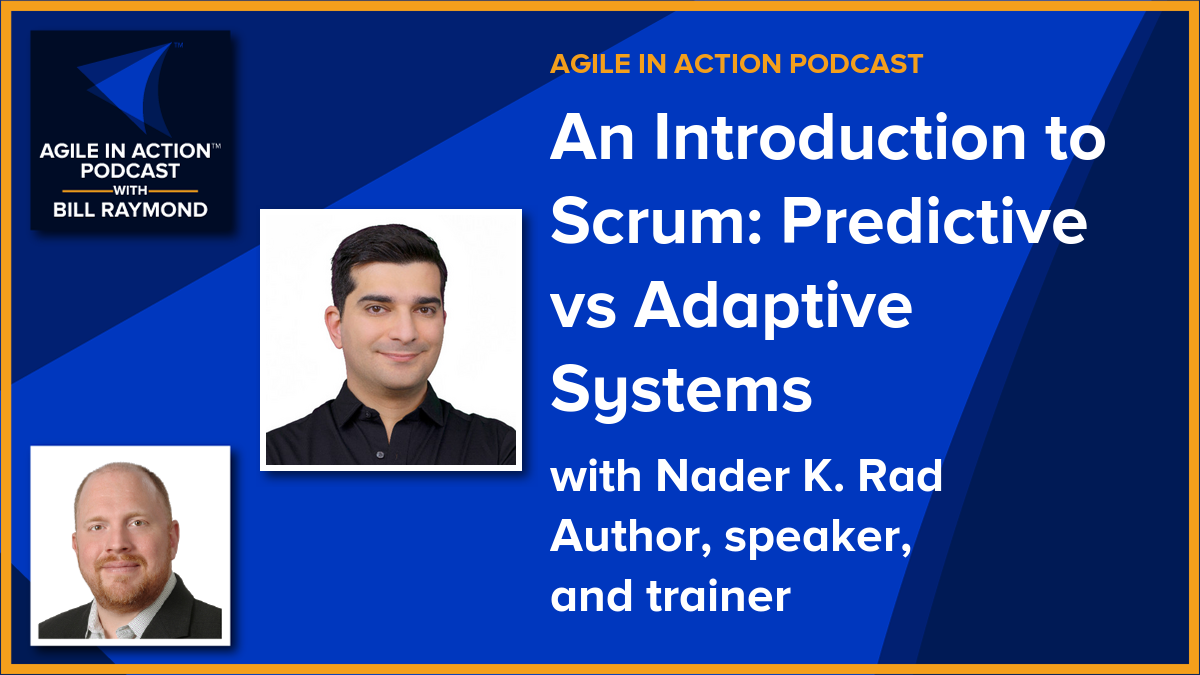
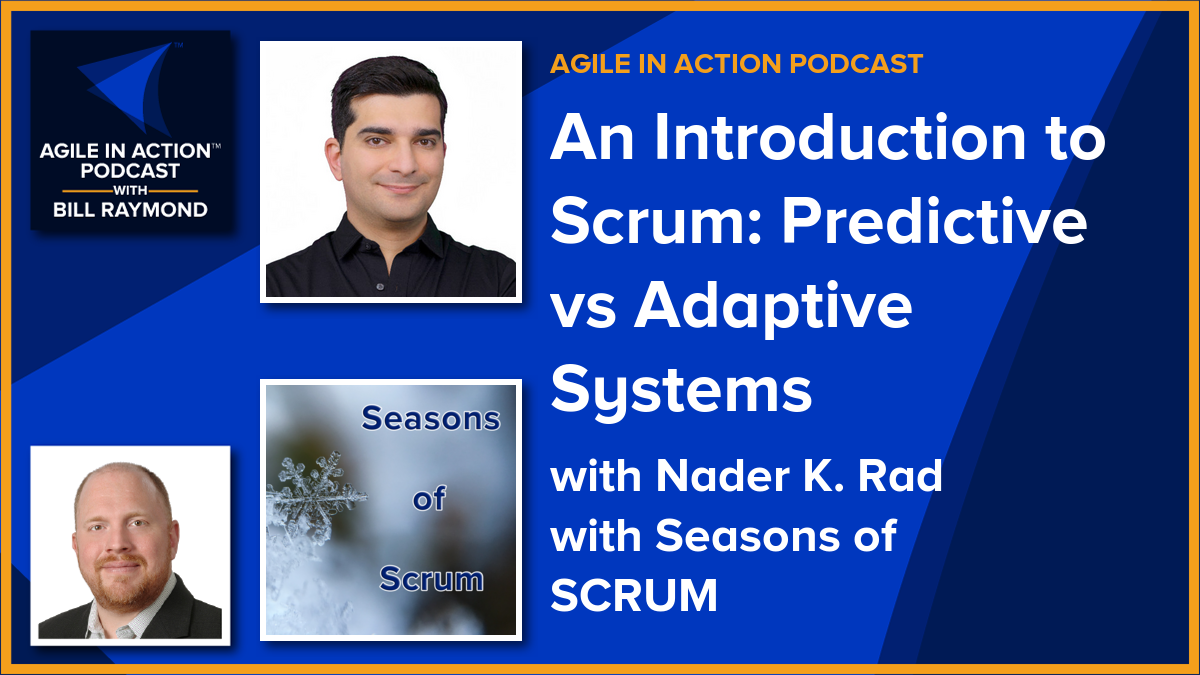
Jekyll build from Action

Changed region(s): [[0.2158, 0.0622, 0.7708, 0.9644]]

diff --git a/agile-in-action-podcast/2023/01/17/an-introduction-to-scrum-predictive-vs-adaptive-systems.html b/agile-in-action-podcast/2023/01/17/an-introduction-to-scrum-predictive-vs-adaptive-systems.html
@@ -65,18 +65,23 @@
   </header>
       <h3>Nader K. Rad</h3>
             <ul><li>
-                    <a href="https://www.linkedin.com/in/naderkrad/" target="blank">Nader on LinnkedIn</a>
+                    <a href="https://nader.pm" target="blank">Nader's website</a>
+                </li><li>
+                    <a href="https://www.linkedin.com/in/naderkrad/" target="blank">Nader on LinkedIn</a>
                 </li><li>
                     <a href="https://www.scrum.org/resources/scrum-guide" target="blank">The Agile Scrum Handbook (Scrum Guide)</a>
                 </li><li>
                     <a href="https://www.agilebusiness.org/business-agility/what-is-dsdm.html" target="blank">DSDM</a>
-                </li></ul>
+                </li></ul><h3>Seasons of SCRUM</h3>
+            <ul></ul>
   <div class="post-content e-content" itemprop="articleBody">
     <h2>About this podcast episode</h2>
     <h2 id="transcript">Transcript</h2>
+<p>(transcripts are auto-generated, so please excuse the brevity)</p>
 
-<p>(transcripts are auto-generated, so please excuse the brevity)
-<strong>Bill Raymond:</strong> Hi and welcome to the podcast. Today, I’m joined by Nader K Rad. Author, speaker, and trainer. Hi, Nader, how are you today?</p>
+<h3 id="introductions">Introductions</h3>
+
+<p><strong>Bill Raymond:</strong> Hi and welcome to the podcast. Today, I’m joined by Nader K Rad. Author, speaker, and trainer. Hi, Nader, how are you today?</p>
 
 <p><strong>Nader K Rad:</strong> Hi Bill. Thanks, I’m fine. Thanks for having me here.</p>
 
@@ -184,7 +189,7 @@
 
 <p><strong>Nader K Rad:</strong> We get together with the team members, think about everything you’ve done during the sprints and the ways you can improve your way of work for the next sprint. It’s a really good idea. Each time in each cycle you have, you pause for a moment, you think about everything that happened and you think, okay, what’s the one thing I can do differently next time to be better?</p>
 
-<p><strong>Nader K Rad:</strong> And then you do that in the next sprint. One or two things. Yeah, so that’s how it works. You go to the next sprint, create the next version of the product. There are details, there are sometimes variations depending on the source that you have in mind for a SCRUM and so on. There are also a few roles that may be interesting for people.</p>
+<p><strong>Nader K Rad:</strong> then you do that in the next sprint. One or two things. Yeah, so that’s how it works. You go to the next sprint, create the next version of the product. There are details, there are sometimes variations depending on the source that you have in mind for a SCRUM and so on. There are also a few roles that may be interesting for people.</p>
 
 <h3 id="feedback-will-become-features">Feedback Will Become Features</h3>
 
@@ -228,23 +233,17 @@
 
 <p><strong>Bill Raymond:</strong> And then just to make sure that we’re all on track and that we’re all making sure that we’re closing out issues and keeping things going, we have a SCRUM master to support that.</p>
 
-<p><strong>Bill Raymond:</strong> This has been a great conversation, I really appreciate it. And this is again, part one of the conversation. We’re going to get into how you actually implement this in the next conversation.</p>
+<p>As we talked about in a SCRUM, we have only the developers, the product owner and the SCRUM master and we don’t have a</p>
 
-<p><strong>Bill Raymond:</strong> But before we wrap up, Nader, is there some way that people can reach you?</p>
+<p>###</p>
 
-<p><strong>Nader K Rad:</strong> Yeah, sure. But before that, I think I should mention something else. Do we have time? Two minutes?</p>
-
-<p><strong>Bill Raymond:</strong> Sure.</p>
-
-<p><strong>Nader K Rad:</strong> All right. So, because you said that many of your audience are project managers. There’s something important here. As we talked about in a SCRUM, we have only the developers, the product owner and the SCRUM master and we don’t have a project manager.</p>
+<p><strong>Nader K Rad:</strong> project manager.</p>
 
 <p><strong>Nader K Rad:</strong> And what happens here, doesn’t mean that we don’t have project management, it means that there’s no single person who’s responsible for project management. But the project management’s responsibilities are distributed among those three roles. And a SCRUM doesn’t want to have a project manager. But that’s only SCRUM, that’s not agile. And many people mistake it.</p>
 
-<p><strong>Nader K Rad:</strong> When people think that when you are agile, you should not have a project manager, which is absolutely wrong. That’s because the only thing people know about that agile is SCRUM. There is nothing wrong with having a project manager in an agile method. And for example, DSDM has a project manager, xFi didn’t have any problem with project managers.</p>
+<p><strong>Nader K Rad:</strong> When people think that when you are agile, you should not have a project manager, which is absolutely wrong. That’s because the only thing people know about that agile is SCRUM. There is nothing wrong with having a project manager in an agile method. And for example, DSDM has a project manager, There are different methods and for people who are interested, I really recommend learning about more than one of them.</p>
 
-<p>There are different methods and for people who are interested, I really recommend learning about more than one of them.</p>
-
-<p><strong>Bill Raymond:</strong> Yeah, that makes sense. I think that’s really important, you know, the roles and the purpose of the roles sometimes change dramatically, depending on the type of work that you’re doing, but it does not say, well, this is some new way of doing things, so therefore your role is now obsolete. That doesn’t happen in this agile space.</p>
+<p><strong>Bill Raymond:</strong> that makes sense. I think that’s really important, you know, the roles and the purpose of the roles sometimes change dramatically, depending on the type of work that you’re doing, but it does not say, well, this is some new way of doing things, so therefore your role is now obsolete. That doesn’t happen in this agile space.</p>
 
 <p><strong>Bill Raymond:</strong> However, the what you do, the actions that you take, the expectations that are on you, could change quite a bit.</p>
 
@@ -254,17 +253,11 @@
 
 <p><strong>Nader K Rad:</strong> Yeah, sure. I’m relatively active on LinkedIn, and that’s probably the best way of contacting me. I’m not active in Twitter or other places like that or Facebook. Just LinkedIn for me. And there’s also my website. People who prefer to send an email or something like that, they can find it in my website.</p>
 
-<p><strong>Bill Raymond:</strong> Yeah, and we found out about you, of course, I’m almost going to call you a serial author. I think you have written 40 or 50 books or something like that, but actually we found out about you by your book. It’s called Agile SCRUM Handbook and I think you’re on the second edition now, is that correct?</p>
+<p><strong>Bill Raymond:</strong> Yeah, and we found out about you, of course, I’m almost going to call you a serial author. I think you have written 40 or 50 books or something like that, but actually we found out about you by your book. It’s called Agile SCRUM Handbook an excellent book, and it’s a great introduction to all of the concepts that we’re talking about here today.</p>
 
-<p><strong>Nader K Rad:</strong> Um, that’s third edition.</p>
+<p><strong>Bill Raymond:</strong> So we’ll provide a link to your LinkedIn account, your book and of course your website, and I’ll make sure that those are on the AgileInAction.com website. Just look up the conversation with Nader K Rad, and it will also be right there in your podcast app that you’re using right now. Just scroll down to the show notes or the description, and you’ll see those links there. Nader, thank you, and until the next podcast, have a great great day. day</p>
 
-<p><strong>Bill Raymond:</strong> Oh, third edition, I’m sorry. Yes, the third edition. I apologize for that. I have that written down wrong. But yes, it’s an excellent book, and it’s a great introduction to all of the concepts that we’re talking about here today.</p>
-
-<p><strong>Bill Raymond:</strong> So we’ll provide a link to your LinkedIn account, your book and of course your website, and I’ll make sure that those are on the AgileInAction.com website. Just look up the conversation with Nader K Rad, and it will also be right there in your podcast reader app that you’re using right now. Just scroll down to the show notes or the description, and you’ll see those links there. Nader, thank you, and until the next podcast, a great great</p>
-
-<p><strong>Nader K Rad:</strong> Bill, it was great talking to you.</p>
-
-<p><strong>Bill Raymond:</strong> Thank you, good bye.</p>
+<p><strong>Nader K Rad:</strong> Thanks Bill, it was great talking to you</p>
 
 
   </div><a class="u-url" href="/agile-in-action-podcast/2023/01/17/an-introduction-to-scrum-predictive-vs-adaptive-systems.html" hidden></a>

diff --git a/admin/index.html b/admin/index.html
@@ -34,7 +34,7 @@
 <h2 class="post-list-heading">Latest Agile in Action Podcast with Bill Raymond</h2>
 
 <a href="/"><< ⚠ This is an admin page that shows future podcasts. Return to the home page. ⚠</a><ul class="post-list"><li><a href="/agile-in-action-podcast/2023/01/17/an-introduction-to-scrum-predictive-vs-adaptive-systems.html"><img src="/uploads/wf-featured-images/2023-01-17-an-introduction-to-scrum-predictive-vs-adaptive-systems.png" alt="An Introduction to Scrum: Predictive vs Adaptive Systems"></a>
-          <h3><a class="post-link" href="/agile-in-action-podcast/2023/01/17/an-introduction-to-scrum-predictive-vs-adaptive-systems.html">An Introduction to Scrum: Predictive vs Adaptive Systems</a></h3>with </strong><span class="guest-name" itemprop="name">Nader K. Rad, Author, speaker, and trainer</span><br></li></ul><h2 class="post-list-heading">Previous podcasts</h2>
+          <h3><a class="post-link" href="/agile-in-action-podcast/2023/01/17/an-introduction-to-scrum-predictive-vs-adaptive-systems.html">An Introduction to Scrum: Predictive vs Adaptive Systems</a></h3>with </strong><span class="guest-name" itemprop="name">Nader K. Rad, Author, speaker, and trainer</span><br>with </strong><span class="guest-name" itemprop="name">Seasons of SCRUM</span><br></li></ul><h2 class="post-list-heading">Previous podcasts</h2>
 
 <a href="/"><< ⚠ This is an admin page that shows future podcasts. Return to the home page. ⚠</a><ul class="post-list"><li><div class="small-guest-boxes">
                 <a href="/agile-in-action-podcast/2022/12/20/rebroadcast-introducing-objectives-and-key-results-okrs.html"><h3>Rebroadcast: Introducing Objectives and Key Results (OKRs)</h3></a>

diff --git a/wf-01-create-fi/index.html b/wf-01-create-fi/index.html
@@ -620,14 +620,17 @@ Title: Team topologies and an obsession over a rapid flow of change
 <p>This section can be used to debug locally before adjusting the shell script.</p>
 
 <div class="language-plaintext highlighter-rouge"><div class="highlight"><pre class="highlight"><code>Title: An Introduction to Scrum: Predictive vs Adaptive Systems
-Size(new): 1
+Size(new): 2
 First image: /uploads/nader-k-rad.jpeg
-Second image: 
+Second image: /uploads/seaasons-of-scrum-winter.png
 Third image: 
 Fourth image: 
 
     guest-photo: /uploads/nader-k-rad.jpeg
     filename: nader-k-rad.jpeg
+
+    guest-photo: /uploads/seaasons-of-scrum-winter.png
+    filename: seaasons-of-scrum-winter.png
 
 
 Title: Rebroadcast: Introducing Objectives and Key Results (OKRs)

diff --git a/wf-00-guest-images-fi/index.html b/wf-00-guest-images-fi/index.html
@@ -130,6 +130,9 @@ exit
 <div class="language-plaintext highlighter-rouge"><div class="highlight"><pre class="highlight"><code>    guest-photo: /uploads/nader-k-rad.jpeg
     filename: nader-k-rad.jpeg
 
+    guest-photo: /uploads/seaasons-of-scrum-winter.png
+    filename: seaasons-of-scrum-winter.png
+
 
 Title: Rebroadcast: Introducing Objectives and Key Results (OKRs)
 
